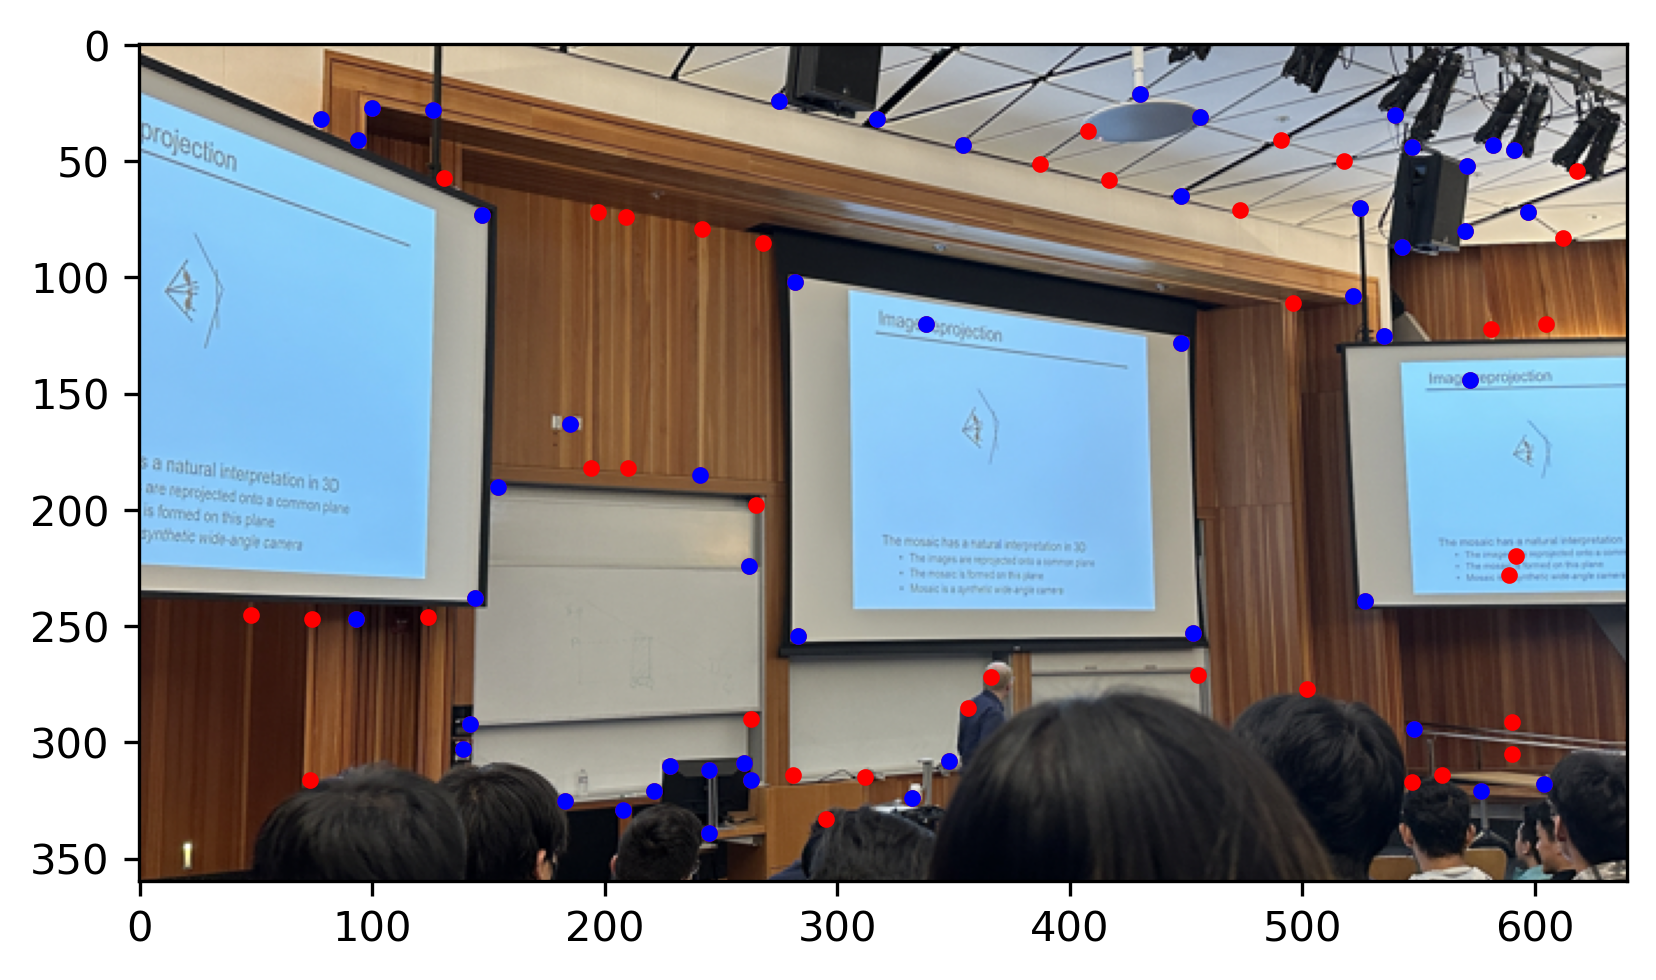
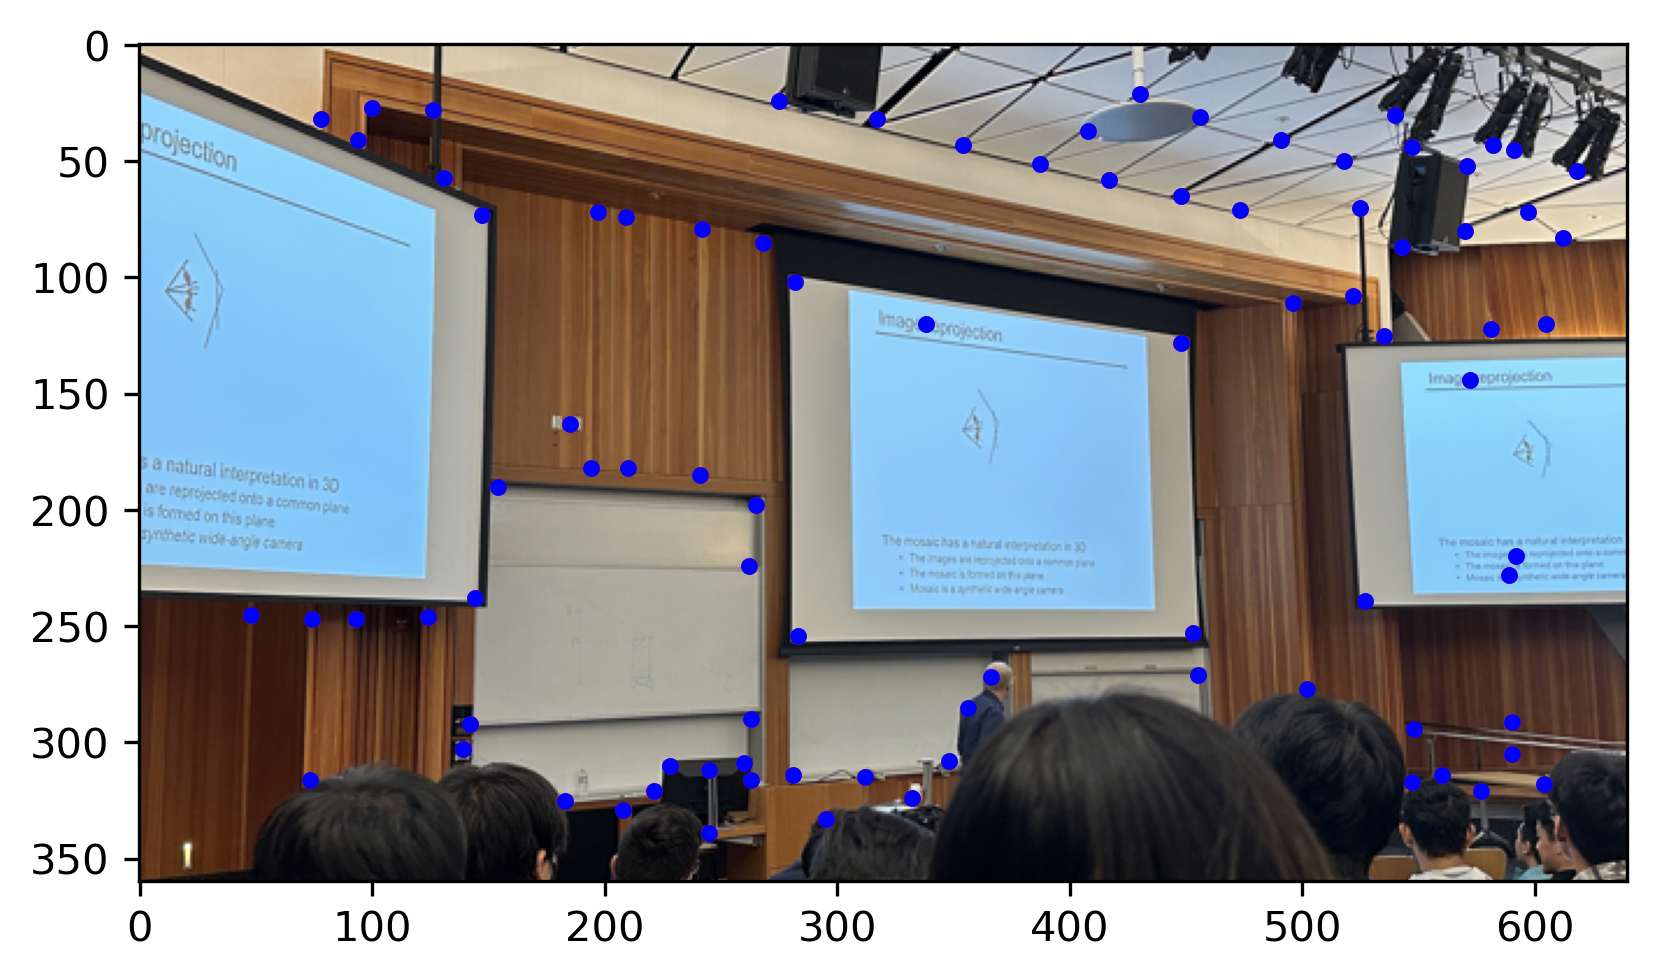
project4

diff --git a/4/code/mainb.py b/4/code/mainb.py
@@ -180,6 +180,7 @@ def step2(path):
     plt.plot(coords[1,:], coords[0,:],'ro', markersize=3)
     plt.plot(coords_ANMS[1,:], coords_ANMS[0,:],'bo', markersize=3)
     plt.savefig('./images/{}.png'.format(name), dpi=300, bbox_inches='tight')
+    plt.close()
     
 def step3(path1, path2, name):
     img1 = sk.img_as_float(imread(path1))[:, :, :3]
@@ -256,24 +257,24 @@ def step4_garden():
     imsave('./images/'+'garden_mosaic_auto.png',img)
     
 if __name__ == "__main__":
-   #step1(path = './images/library1.png')
-   #step1(path = './images/library2.png')
-   #step2(path = './images/library1.png')
-   #step2(path = './images/library2.png')
-   #step3('./images/library1.png','./images/library2.png',name='library_feature_match')
+   step1(path = './images/library1.png')
+   step1(path = './images/library2.png')
+   step2(path = './images/library1.png')
+   step2(path = './images/library2.png')
+   step3('./images/library1.png','./images/library2.png',name='library_feature_match')
     #step4_library()
    
-   #step1(path = './images/garden1.png')
-   #step1(path = './images/garden2.png')
-   #step2(path = './images/garden2.png')
-   #step2(path = './images/garden1.png')
-   #step3('./images/garden1.png','./images/garden2.png',name='garden_feature_match')
-    step4_garden()
-   #step1(path = './images/lecture1.png')
-   #step1(path = './images/lecture2.png')
-   #step2(path='./images/lecture1.png')
-   #step2(path = './images/lecture2.png')
-   #step3('./images/lecture1.png','./images/lecture2.png',name='lecture_feature_match')
+   step1(path = './images/garden1.png')
+   step1(path = './images/garden2.png')
+   step2(path = './images/garden1.png')
+   step2(path = './images/garden2.png')
+   step3('./images/garden1.png','./images/garden2.png',name='garden_feature_match')
+    #step4_garden()
+   step1(path = './images/lecture1.png')
+   step1(path = './images/lecture2.png')
+   step2(path='./images/lecture1.png')
+   step2(path = './images/lecture2.png')
+   step3('./images/lecture1.png','./images/lecture2.png',name='lecture_feature_match')
     #step4_lecture()
     
     
